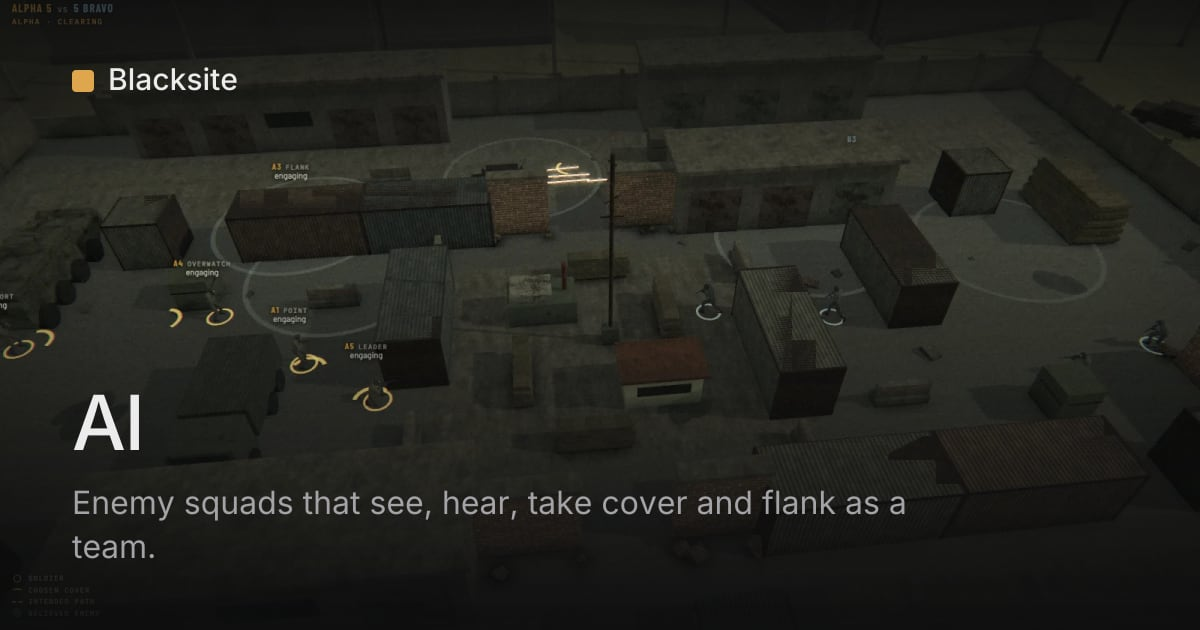
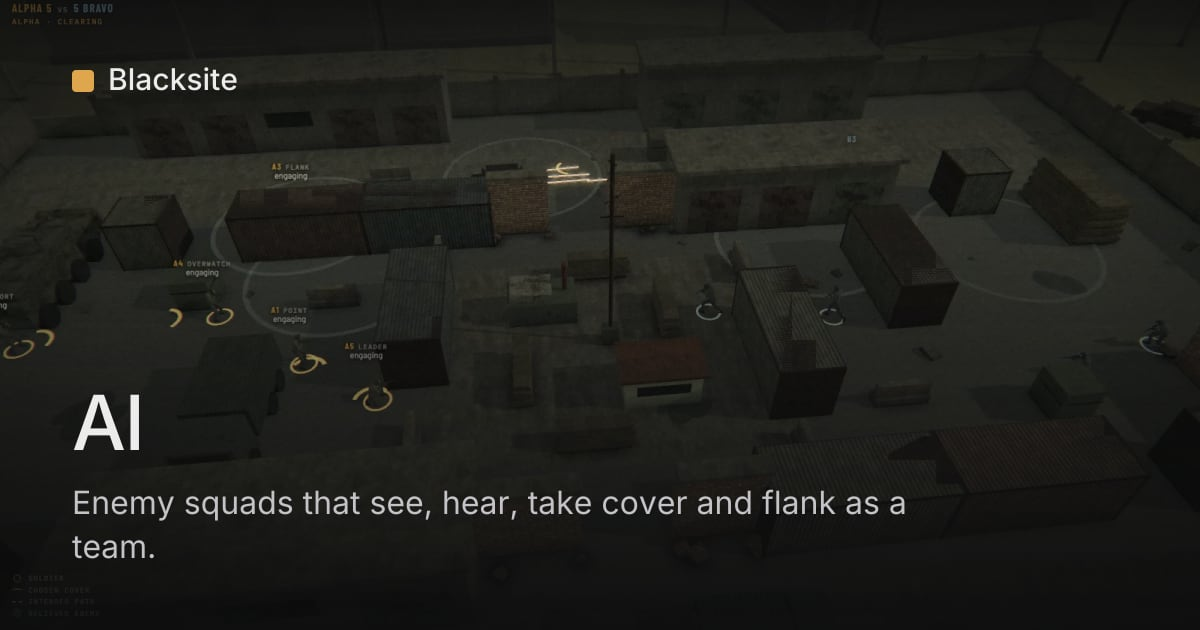
Lead with the game-dev instincts thesis and drop before/after framing

diff --git a/site/src/pages/SkillsPage.tsx b/site/src/pages/SkillsPage.tsx
@@ -9,7 +9,7 @@ export function SkillsPage() {
   return <div className="page how">
     <header className="tool-head">
       <h1 className="page-title">How it works</h1>
-      <p className="lede">Blacksite is one skill your coding agent reads, plus {references.length} reference files it opens when the work needs them. Ask for a game, a level or a mechanic and the agent uses it on its own, even if you never say Blacksite.</p>
+      <p className="lede">Blacksite is one skill your coding agent reads, plus {references.length} reference files it opens when the work needs them. Describe a game to Claude Code, Codex or Cursor, without naming Blacksite, and the agent plans it with you, builds it from tested parts and checks that no frame takes longer than 33 ms before it sends you a link to play.</p>
     </header>
 
     <section className="section section--first" aria-labelledby="steps-title">
@@ -20,13 +20,12 @@ export function SkillsPage() {
     </section>
 
     <section className="section" aria-labelledby="examples-title">
-      <h2 className="section-title" id="examples-title">What you ask for, and what it builds</h2>
-      <p className="section-lede">A quick first attempt at a feature works, but looks and feels thin. For each feature, the skill lists what a finished version includes, with numbers.</p>
+      <h2 className="section-title" id="examples-title">What the agent knows to build</h2>
+      <p className="section-lede">For each feature, the skill gives the agent the details and numbers that real games use.</p>
       <div className="compare-table" role="table">
-        <div className="compare-row compare-row--head" role="row"><span role="columnheader">You ask for</span><span role="columnheader">A first attempt</span><span role="columnheader">What the agent builds</span></div>
+        <div className="compare-row compare-row--head" role="row"><span role="columnheader">You ask for</span><span role="columnheader">What the agent builds</span></div>
         {examples.map(example => <div className="compare-row" role="row" key={example.ask}>
           <span role="cell">{example.ask}</span>
-          <span role="cell">{example.quick}</span>
           <span role="cell">{example.built}</span>
         </div>)}
       </div>

diff --git a/site/src/seo.ts b/site/src/seo.ts
@@ -4,7 +4,8 @@ import { docList } from './doc-list'
 export const siteName = 'Blacksite'
 export const defaultSiteUrl = 'https://blacksite-sable.vercel.app'
 export const themeColor = '#0e0e0f'
-export const headline = 'A skill that helps your coding agent build 3D browser games'
+export const headline = 'The game-dev instincts your coding agent is missing'
+export const subhead = 'Blacksite gives your agents best practices from real games, top-quality examples to learn from, and building blocks to build on.'
 export const imageSize = { width: 1200, height: 630 }
 
 export type PageMeta = { route: string; title: string; description: string; image: string; imageAlt: string; type: 'website' | 'article' }
@@ -29,7 +30,7 @@ const guideDescriptions: Record<string, string> = {
 }
 
 export const pages: PageMeta[] = [
-  { route: '', title: `${siteName} — ${headline}`, description: 'Describe a game to Claude Code, Codex or Cursor. The agent builds it from tested parts and checks speed, movement and sound before you play.', image: 'og/home.jpg', imageAlt: `${siteName}: ${headline}`, type: 'website' },
+  { route: '', title: `${siteName} — ${headline}`, description: subhead, image: 'og/home.jpg', imageAlt: `${siteName}: ${headline}`, type: 'website' },
   { route: 'get-started', title: `Get started — ${siteName}`, description: 'Install Blacksite with one command, open Claude Code, Codex or Cursor in an empty folder, and say what game you want. The agent builds it and sends a link.', image: 'og/get-started.jpg', imageAlt: `Get started with ${siteName}`, type: 'article' },
   { route: 'skills', title: `How it works — ${siteName}`, description: 'What your coding agent does when you ask for a game: it sizes the job, writes the numbers down, lists the parts, builds them and checks its own work.', image: 'og/skills.jpg', imageAlt: `How ${siteName} works`, type: 'article' },
   { route: 'roadmap', title: `Roadmap — ${siteName}`, description: 'What works in Blacksite today, what is being built now, and what comes after that, for the skill and its building blocks.', image: 'og/roadmap.jpg', imageAlt: `${siteName} roadmap`, type: 'article' },

diff --git a/scripts/meta-images.ts b/scripts/meta-images.ts
@@ -85,16 +85,16 @@ function text(face: Font, value: string, x: number, y: number, size: number, fil
 
 function overlay(spec: ImageSpec): string {
   const { width, height } = imageSize, left = 72
-  const titleSize = spec.subtitle ? 76 : 60, titleLeading = titleSize * 1.12, titleLines = wrap(display, spec.title, titleSize, 1000, -0.02)
+  const titleSize = spec.subtitle && spec.title.length <= 40 ? 76 : 60, titleLeading = titleSize * 1.12, titleLines = wrap(display, spec.title, titleSize, 1000, -0.02)
   const subtitleLines = spec.subtitle ? wrap(body, spec.subtitle, 32, 900, 0) : []
   let y = height - 72 - (subtitleLines.length - 1) * 44
   const parts: string[] = []
-  for (const line of subtitleLines) { parts.push(text(body, line, left, y, 32, '#a3a3a8')); y += 44 }
+  for (const line of subtitleLines) { parts.push(text(body, line, left, y, 32, '#c4c4c8')); y += 44 }
   y = height - 72 - (subtitleLines.length ? subtitleLines.length * 44 + 20 : 0) - (titleLines.length - 1) * titleLeading
   for (const line of titleLines) { parts.push(text(display, line, left, y, titleSize, '#ececec', -0.02)); y += titleLeading }
   return `<svg xmlns="http://www.w3.org/2000/svg" width="${width}" height="${height}" viewBox="0 0 ${width} ${height}">
     <defs>
-      <linearGradient id="foot" x1="0" x2="0" y1="1" y2="0"><stop offset="0" stop-color="${themeColor}" stop-opacity="0.92"/><stop offset="0.6" stop-color="${themeColor}" stop-opacity="0"/></linearGradient>
+      <linearGradient id="foot" x1="0" x2="0" y1="1" y2="0"><stop offset="0" stop-color="${themeColor}" stop-opacity="0.92"/><stop offset="0.85" stop-color="${themeColor}" stop-opacity="0"/></linearGradient>
       <linearGradient id="head" x1="0" x2="0" y1="0" y2="1"><stop offset="0" stop-color="${themeColor}" stop-opacity="0.75"/><stop offset="0.3" stop-color="${themeColor}" stop-opacity="0"/></linearGradient>
     </defs>
     ${spec.card ? '' : `<rect width="${width}" height="${height}" fill="url(#foot)"/><rect width="${width}" height="${height}" fill="url(#head)"/>`}

diff --git a/site/src/skill-meta.ts b/site/src/skill-meta.ts
@@ -13,10 +13,10 @@ export const steps = [
 ]
 
 export const examples = [
-  { ask: 'Footsteps', quick: 'One sample on a timer', built: '3 to 5 samples per surface, triggered by the animation’s foot plants, never the same one twice in a row, with a landing sound scaled by fall speed' },
-  { ask: 'A gun', quick: 'A ray and a muzzle flash', built: 'A 600 RPM weapon with recoil the view recovers from, a kick in the arms on screen, a visible tracer on one round in three, bullet marks and dust that match the surface, and an echo that matches the room' },
-  { ask: 'Smart enemies', quick: 'A chase in a straight line with perfect aim', built: 'Vision cones and hearing, a 0.2 s reaction delay, cover, squad roles, callouts that tell you what they’re doing, and aim that starts wide and tightens' },
-  { ask: 'A jump', quick: 'Upward velocity on a key press', built: 'About 0.9 m high, still allowed 0.1 s after you run off a ledge, a press up to 0.1 s before landing still counts, a dip in the camera on landing and a landing sound' },
+  { ask: 'Footsteps', built: '3 to 5 samples per surface, triggered by the animation’s foot plants, never the same one twice in a row, with a landing sound scaled by fall speed' },
+  { ask: 'A gun', built: 'A 600 RPM weapon with recoil the view recovers from, a kick in the arms on screen, a visible tracer on one round in three, bullet marks and dust that match the surface, and an echo that matches the room' },
+  { ask: 'Smart enemies', built: 'Vision cones and hearing, a 0.2 s reaction delay, cover, squad roles, callouts that tell you what they’re doing, and aim that starts wide and tightens' },
+  { ask: 'A jump', built: 'About 0.9 m high, still allowed 0.1 s after you run off a ledge, a press up to 0.1 s before landing still counts, a dip in the camera on landing and a landing sound' },
 ]
 
 export const referenceGroups = [

diff --git a/site/src/pages/Home.tsx b/site/src/pages/Home.tsx
@@ -1,7 +1,7 @@
 import { featured, installLine, repo, tools } from '../content'
 import { CopyLine } from '../components'
 import { asset, link } from '../links'
-import { headline } from '../seo'
+import { headline, subhead } from '../seo'
 import { showcases } from '../showcases/registry'
 
 export function Home() {
@@ -10,7 +10,7 @@ export function Home() {
     <section className="hero">
       <div className="hero-copy">
         <h1>{headline}.</h1>
-        <p className="hero-line">Describe a game to Claude Code, Codex or Cursor. The agent plans it with you, builds it from tested parts, and checks on desktop and phone that no frame takes longer than 33 ms before it sends you a link to play.</p>
+        <p className="hero-line">{subhead}</p>
         <div className="hero-install">
           <CopyLine code={installLine} />
           <a className="hero-alt" href={`${repo}/blob/main/install.ps1`}>On Windows, use install.ps1</a>
@@ -35,7 +35,7 @@ export function Home() {
 
     <section className="section" aria-labelledby="blocks-title">
       <h2 className="section-title" id="blocks-title">Building blocks</h2>
-      <p className="section-lede">Finished game systems the agent puts together instead of writing from scratch. Each one has a page with a demo you can play.</p>
+      <p className="section-lede">Finished game systems the agent builds your game from. Each one has a page with a demo you can play.</p>
       <div className="block-table" role="table">
         <div className="block-row block-row--head" role="row"><span role="columnheader">Block</span><span role="columnheader">What it gives your game</span></div>
         {tools.map(tool => <div className="block-row" role="row" key={tool.slug}>

diff --git a/site/src/meta-images.ts b/site/src/meta-images.ts
@@ -1,5 +1,5 @@
 import { tools } from './content'
-import { headline } from './seo'
+import { headline, subhead } from './seo'
 
 export type ImageSpec = { file: string; source: string; title: string; subtitle?: string; card: boolean }
 
@@ -7,7 +7,7 @@ export const cardSource = 'thumbs/hero.webp'
 
 export function imageSpecs(thumbnailFor: (tool: string) => string | undefined): ImageSpec[] {
   return [
-    { file: 'og/home.jpg', source: thumbnailFor('destruction') ?? cardSource, title: headline, card: false },
+    { file: 'og/home.jpg', source: thumbnailFor('destruction') ?? cardSource, title: headline, subtitle: subhead, card: false },
     { file: 'og/get-started.jpg', source: cardSource, title: 'Get started', subtitle: 'Install it, open your agent, and say what you want to make.', card: true },
     { file: 'og/skills.jpg', source: cardSource, title: 'How it works', subtitle: 'What your coding agent does when you ask for a game.', card: true },
     { file: 'og/roadmap.jpg', source: cardSource, title: 'Roadmap', subtitle: 'What works today and what comes next.', card: true },

diff --git a/site/src/site.test.ts b/site/src/site.test.ts
@@ -99,7 +99,7 @@ describe('copy', () => {
   it('names no other engine or system codename in what visitors read', () => {
     const text = JSON.stringify([tools.map(({ packages: _, agent: { commands: __, ...agent }, ...tool }) => ({ ...tool, agent })), featured, parts, limits, steps, examples, referenceNotes, pages, showcases.map(({ summary, tryThis, title }) => ({ summary, tryThis, title }))])
     expect(text).not.toMatch(/Unreal|Unity|Godot|\bUE5\b|Armory|Warden|Relay|Cascade/)
-    expect(text).not.toMatch(/feel shipped|shipped game|shipped version|student project|\bSlice\b|first playable|hitch|pop-in|coyote|viewmodel/i)
+    expect(text).not.toMatch(/feel shipped|shipped game|shipped version|student project|\bSlice\b|first playable|hitch|pop-in|coyote|viewmodel|first attempt|feels thin|most agents|instead of writing|from scratch/i)
   })
 
   it('shows no status labels', () => {

diff --git a/site/src/site.css b/site/src/site.css
@@ -179,7 +179,7 @@ kbd { display: inline-block; min-width: 24px; padding: 2px 6px; border: 1px soli
 .how-steps p { margin: 0; color: var(--muted); }
 
 .compare-row, .block-row { display: grid; gap: 24px; align-items: baseline; padding: 14px 0; border-bottom: 1px solid var(--line); }
-.compare-row { grid-template-columns: minmax(120px, 0.6fr) minmax(160px, 1fr) 2.4fr; }
+.compare-row { grid-template-columns: minmax(140px, 0.5fr) 3fr; }
 .block-row { grid-template-columns: minmax(150px, 0.6fr) 3fr; }
 .compare-row > span, .block-row > span { color: var(--muted); }
 .compare-row > span:first-child { color: var(--text); }

diff --git a/ROADMAP.md b/ROADMAP.md
@@ -4,9 +4,9 @@ October 2026.
 
 ## What Blacksite is for
 
-Blacksite is a skill that helps your coding agent build 3D browser games, plus the building blocks it builds them from. Everything on this page serves two promises:
+The game-dev instincts your coding agent is missing. Blacksite gives your agents best practices from real games, top-quality examples to learn from, and building blocks to build on. Everything on this page serves two promises:
 
-1. **Agents use the blocks correctly.** Every block has a guide and a skill that tell an agent how it works and how to do common things with it, so it uses the block the standard way instead of guessing.
+1. **Agents use the blocks correctly.** Every block has a guide and a skill that tell an agent how it works and how to do common things with it, so it uses the block the standard way.
 2. **Fast by default.** 120 fps on desktop and a sustained 60 fps on phones, without the agent having to remember to optimise. Desktop game engines turn on detail levels, streaming, budgets and background threads by default; browser games usually start with none of them. Blacksite's blocks do.
 
 ## What works today
@@ -28,7 +28,7 @@ Blacksite is a skill that helps your coding agent build 3D browser games, plus t
 
 Being built now, or next. Each item is done when the line after the dash is true.
 
-- **Showcase demos.** Polished scenes per capability (movement, demolition, firing range, squad AI, arena) built only on the public packages — the site's demos look like a game, not a lab.
+- **Showcase demos.** Polished scenes per capability (movement, demolition, firing range, squad AI, arena) built only on the public packages — the site's demos look and play like games.
 - **Agent guides for the remaining systems.** Cascade, Warden, Relay and Armory get what ALS now has: a mental model, units, the input contract, tested recipes and symptom-indexed gotchas, plus a skill — an agent can do a common task from the guide alone.
 - **Touch controls for the player templates.** `fpp`, `tpp` and `mp` playable on a phone — the same check Cascade walk mode already passes.
 - **Measurement.** Pick reference devices (a desktop and an iPhone/Android pair), a benchmark harness that runs headless and writes JSON, and a frame-time breakdown per system — every demo reports where its frame time goes.

diff --git a/README.md b/README.md
@@ -1,13 +1,13 @@
 # Blacksite
 
-**A skill that helps your coding agent build 3D browser games.**
+**The game-dev instincts your coding agent is missing.**
 
-Describe a game to Claude Code, Codex or Cursor. The agent plans it with you, builds it from tested parts, and checks on desktop and phone that no frame takes longer than 33 ms before it sends you a link to play.
+Blacksite gives your agents best practices from real games, top-quality examples to learn from, and building blocks to build on.
 
-A coding agent can write a game loop. What it can't do in an afternoon is write a character with hundreds of animations, multiplayer that feels right, buildings that collapse, or squads that flank you, and keep all of it at 120 fps on a desktop and 60 fps on a phone. Blacksite gives the agent:
+Blacksite covers characters with hundreds of animations, multiplayer, buildings that collapse and squads that flank you, at 120 fps on a desktop and 60 fps on a phone. It gives the agent:
 
-- **One skill.** `SKILL.md` is what the agent reads for anything about a game. It tells the agent what a finished version of each feature includes: footsteps triggered by the feet, 3 to 5 samples per surface and never the same one twice; enemies with a 0.2 s reaction delay and aim that starts wide. 26 reference files hold the numbers for light, sound, movement, frame budgets and each building block.
-- **Building blocks.** Finished game systems the agent puts together instead of writing from scratch.
+- **One skill.** `SKILL.md` is what the agent reads for anything about a game. It tells the agent what each feature includes in real games: footsteps triggered by the feet, 3 to 5 samples per surface and never the same one twice; enemies with a 0.2 s reaction delay and aim that starts wide. 26 reference files hold the numbers for light, sound, movement, frame budgets and each building block.
+- **Building blocks.** Finished game systems the agent builds your game from.
 - **Templates, an open asset library and checks.** Four starting projects, 146 open-licence assets, and `blacksite check`, which measures a running game on desktop and phone.
 - **Example games.** Breach, Traverse and Valley, each built only on the public packages.
 
